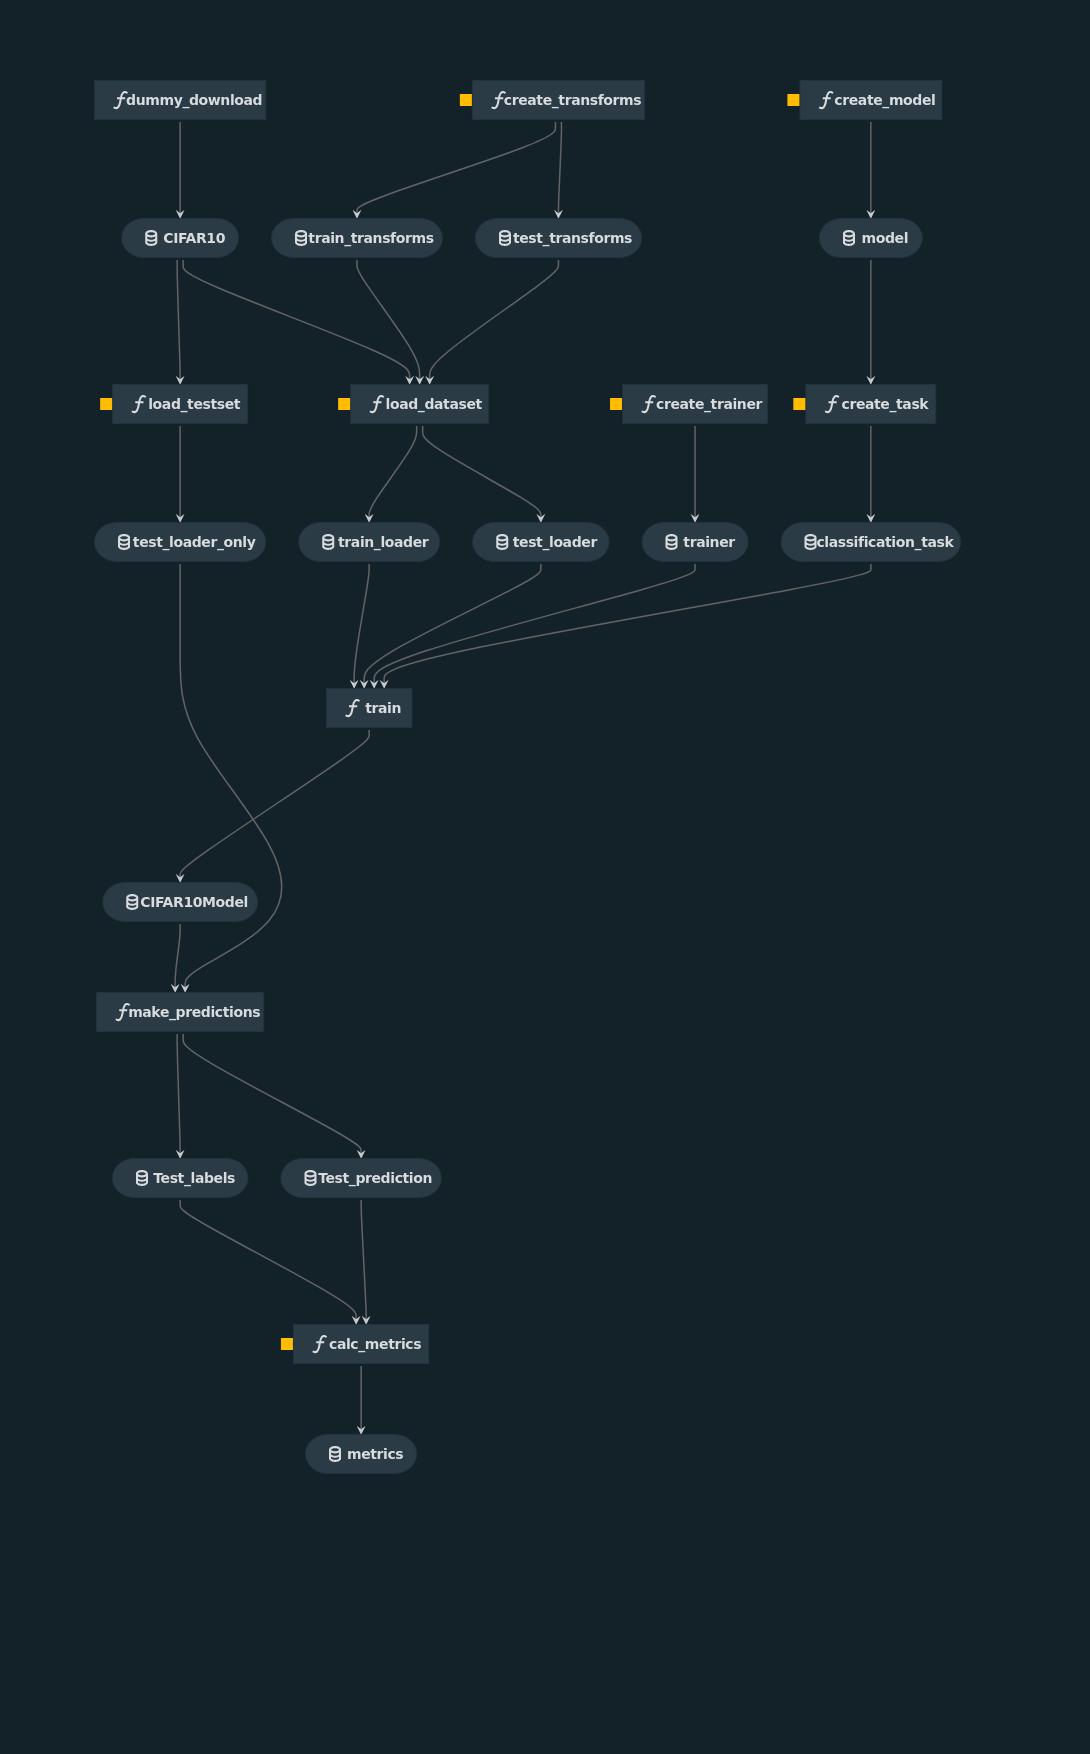
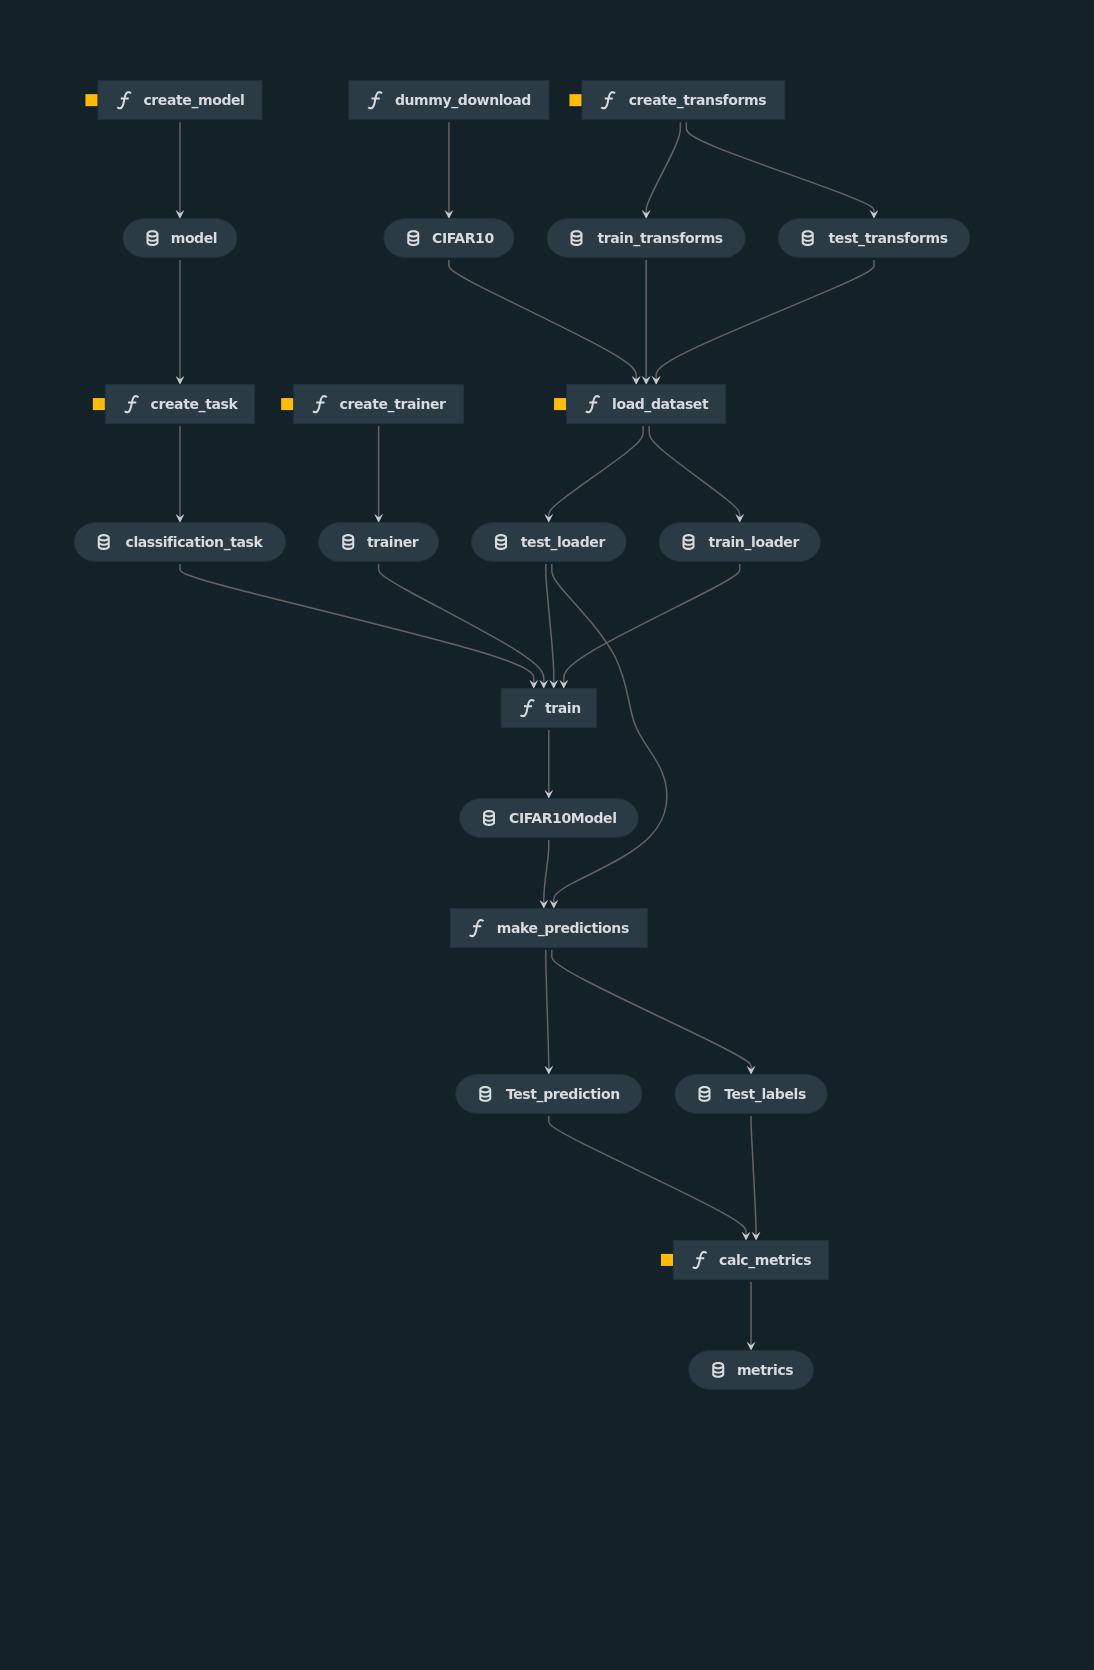
Update readme

diff --git a/src/kedro_image_classification/pipelines/model_evaluation/pipeline.py b/src/kedro_image_classification/pipelines/model_evaluation/pipeline.py
@@ -12,12 +12,6 @@ def create_pipeline(**kwargs) -> Pipeline:
     """
     return pipeline(
         [
-            #     node(
-            #         load_testset,
-            #         inputs=["params:loaders", "CIFAR10"],
-            #         outputs="test_loader_only",
-            #         name="load_testset",
-            #     ),
             node(
                 make_predictions,
                 inputs=["CIFAR10Model", "test_loader"],

diff --git a/README.md b/README.md
@@ -120,24 +120,24 @@ kedro run --pipeline data_processing
 After training, each new model version is saved as a custom `LightningCIFAR10` Kedro dataset ([pytorch_lightning.py](src/kedro_image_classification/extras/models/pytorch_lightning.py)) in the data catalog (more precisely in the [06_models](data/06_models)).
 
 ```shell
-kedro run --pipeline model_training
+kedro run --tags model_training
 ```
 Example GPU training configuration can be found under [gpu_training.yml](conf/training_confs/gpu_training/parameters/gpu_training.yml) and run by:
 
 ```shell
-kedro run --pipeline model_training --env=training_confs/gpu_training
+kedro run --tags model_training --env=training_confs/gpu_training
 ```
 
 ## Model evaluation
 `model_evaluation` pipeline create the `test_loader`, makes the predictions of the latest model on the test data and calculates metrics specified in the [model_evaluation.yml](conf/base/parameters/model_evaluation.yml) config file. Versioned predictions can be found under [prediction.pkl](data/07_model_output). Calculated metrics are saved in the [data/08_reporting/metrics.txt](data/08_reporting/metrics.txt).
 
 ```shell
-kedro run --pipeline model_evaluation
+kedro run --tags model_evaluation
 ```
 
 If you want to run evaluation over other model than the latest one, you need to specify a particular version when running the `model_evaluation` pipeline:
 ```shell
-kedro run --pipeline model_evaluation --load-versions=CIFAR10Model:YYYY-MM-DDThh.mm.ss.sssZ
+kedro run --tags model_evaluation --load-versions=CIFAR10Model:YYYY-MM-DDThh.mm.ss.sssZ
 ```
 
 # Results
